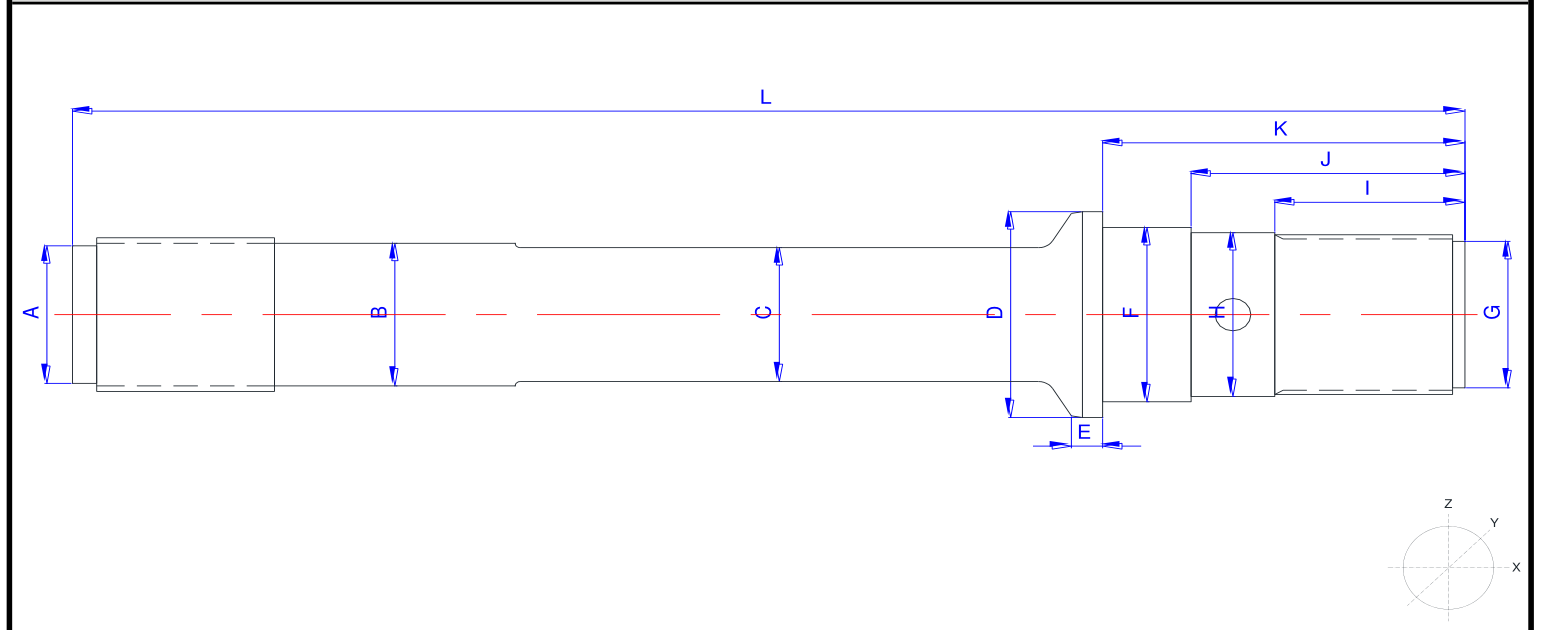
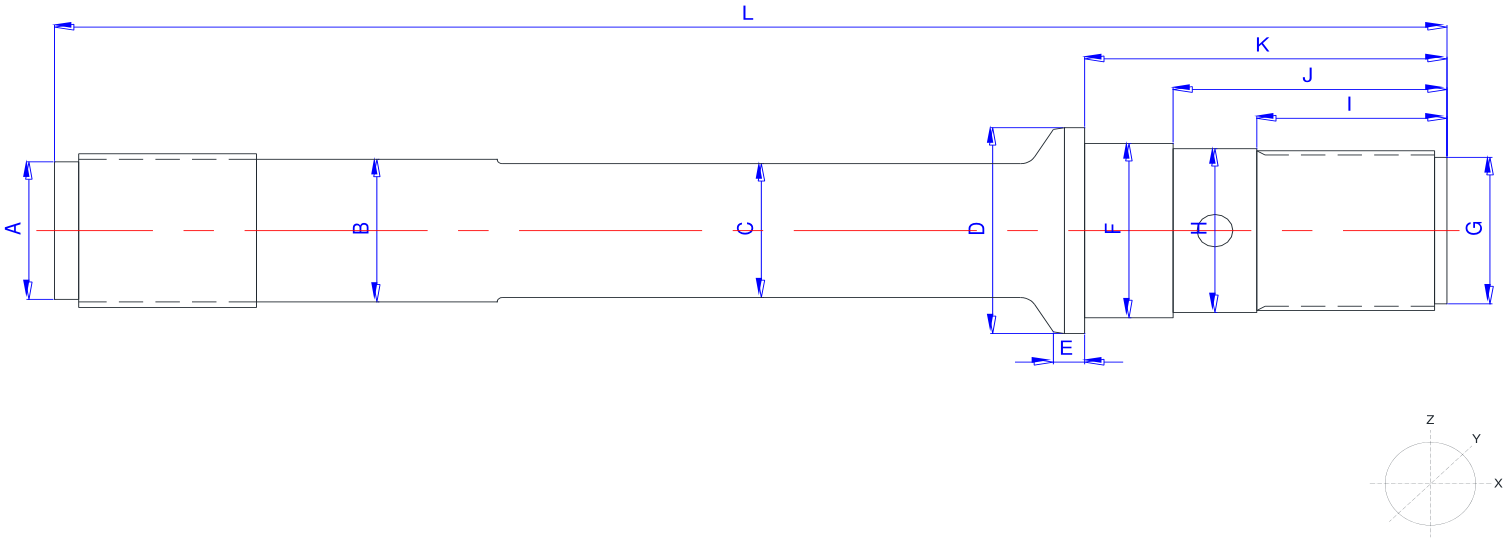
style: remove artificial card borders from blueprint images and let diagrams span full width

Changed region(s): [[0.0, 0.0, 0.9987, 1.0], [0.156, 0.4741, 0.2809, 0.5037], [0.4993, 0.2963, 0.5305, 0.3259]]

diff --git a/public/css/style.css b/public/css/style.css
@@ -2783,14 +2783,30 @@ body {
 /* Blueprint */
 .p-blueprint-box {
   text-align: center;
-  padding: 4px;
+  padding: 4px 6px;
   border-bottom: 1.5px solid #000;
   background: #fff;
+  display: flex;
+  align-items: center;
+  justify-content: center;
+  overflow: hidden;
 }
 
 .p-blueprint-box img {
+  width: 100%;
   max-width: 100%;
-  max-height: 150px;
+  height: auto;
+  max-height: 220px;
+  object-fit: contain;
+  display: block;
+  margin: 0 auto;
+}
+
+#prev_slot_tir_diagram img {
+  width: 100%;
+  max-width: 100%;
+  height: auto;
+  max-height: 175px;
   object-fit: contain;
 }
 

diff --git a/resources/views/reports/print.blade.php b/resources/views/reports/print.blade.php
@@ -209,15 +209,22 @@
     /* Blueprint Diagram */
     .blueprint-box {
       text-align: center;
-      padding: 4px;
+      padding: 4px 6px;
       border-bottom: 1.5px solid #000;
       background: #fff;
+      display: flex;
+      align-items: center;
+      justify-content: center;
+      overflow: hidden;
     }
     .blueprint-box img {
+      width: 100%;
       max-width: 100%;
       height: auto;
-      max-height: 195px;
+      max-height: 220px;
       object-fit: contain;
+      display: block;
+      margin: 0 auto;
     }
 
     /* Finding Table */
@@ -1370,7 +1377,7 @@
     <!-- Yellow Banner: Check TIR -->
     <div class="bar-yellow">Check TIR</div>
     <!-- TIR Blueprint Diagram -->
-    <div class="blueprint-box" style="padding: 6px 15px;">
+    <div class="blueprint-box">
       @if(!empty($photos['tir_diagram']))
         <img src="{{ asset($photos['tir_diagram']) }}" alt="Shaft TIR Measurement Diagram">
       @else

diff --git a/resources/views/reports/create.blade.php b/resources/views/reports/create.blade.php
@@ -1665,7 +1665,7 @@
 
           <!-- Check TIR -->
           <div class="p-bar-yellow">Check TIR</div>
-          <div class="p-blueprint-box" id="prev_slot_tir_diagram" style="padding:4px 10px;">
+          <div class="p-blueprint-box" id="prev_slot_tir_diagram">
             @if(!empty($photos['tir_diagram']))
               <img src="{{ asset($photos['tir_diagram']) }}" alt="Shaft TIR Blueprint">
             @else
